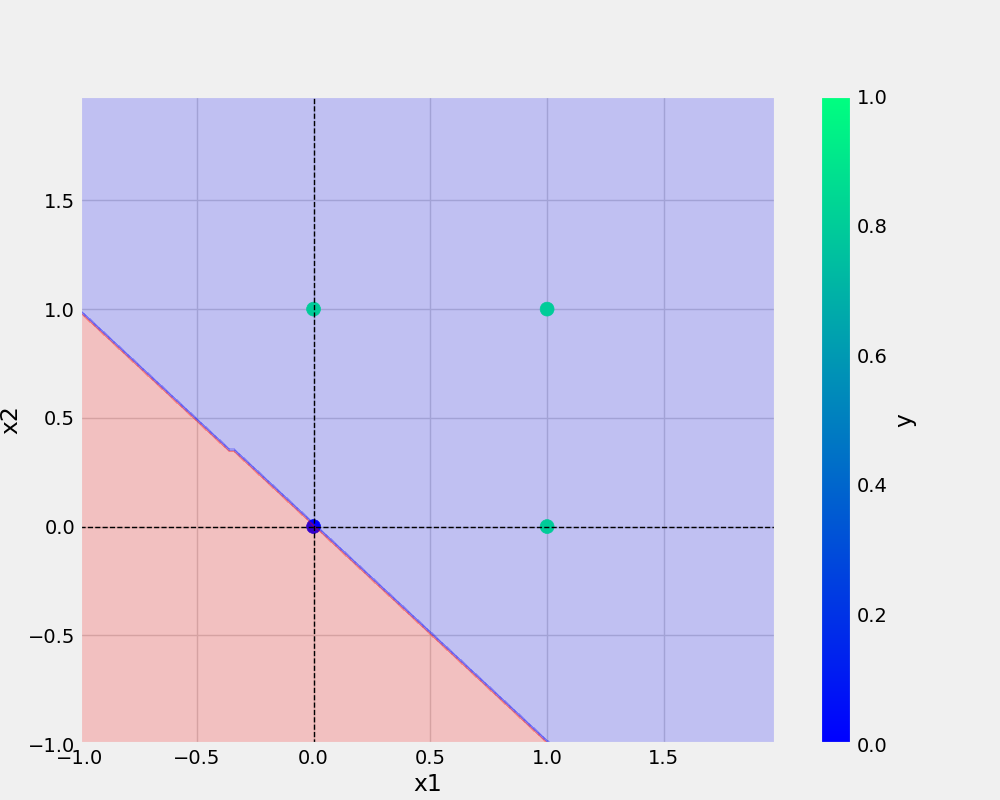
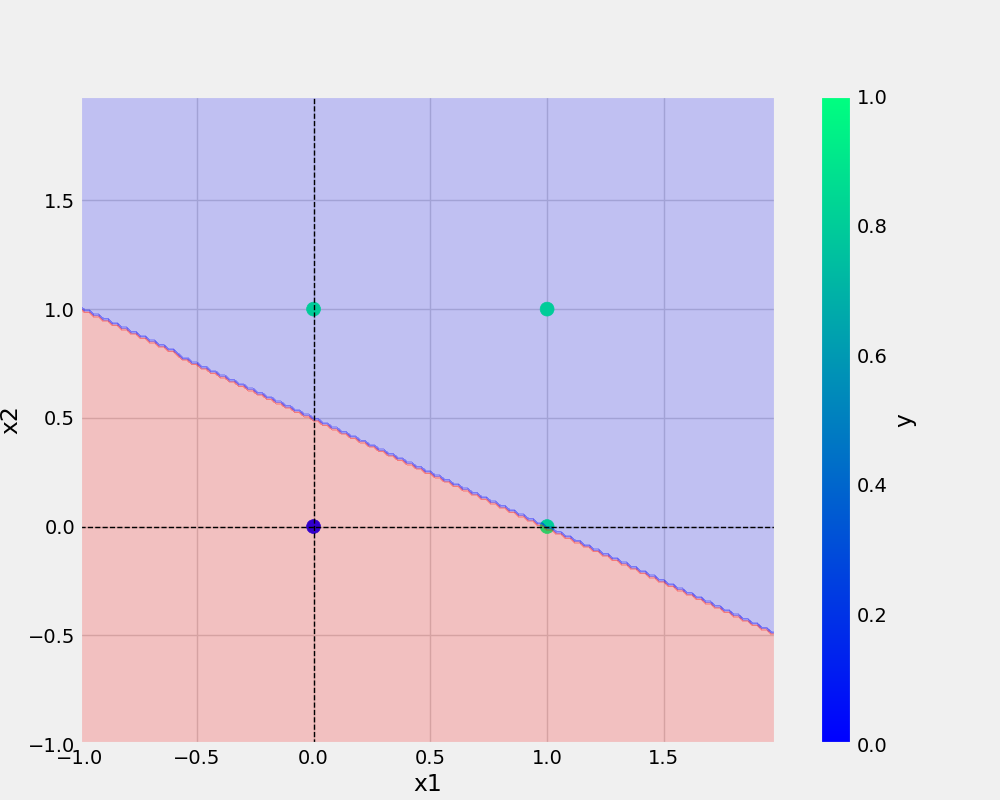
final

Changed region(s): [[0.062, 0.375, 0.775, 0.9375]]

diff --git a/or.py b/or.py
@@ -14,7 +14,7 @@ def main(data, eta, epochs, filename, plotFileName):
 
 
 
-    model = Perceptron(eta=ETA, epochs=EPOCHS)
+    model = Perceptron(eta=eta, epochs=epochs)
     model.fit(X, y)
 
     _ = model.total_loss() # the "_" at the beginnig is just a dummy variable, it can be removed
